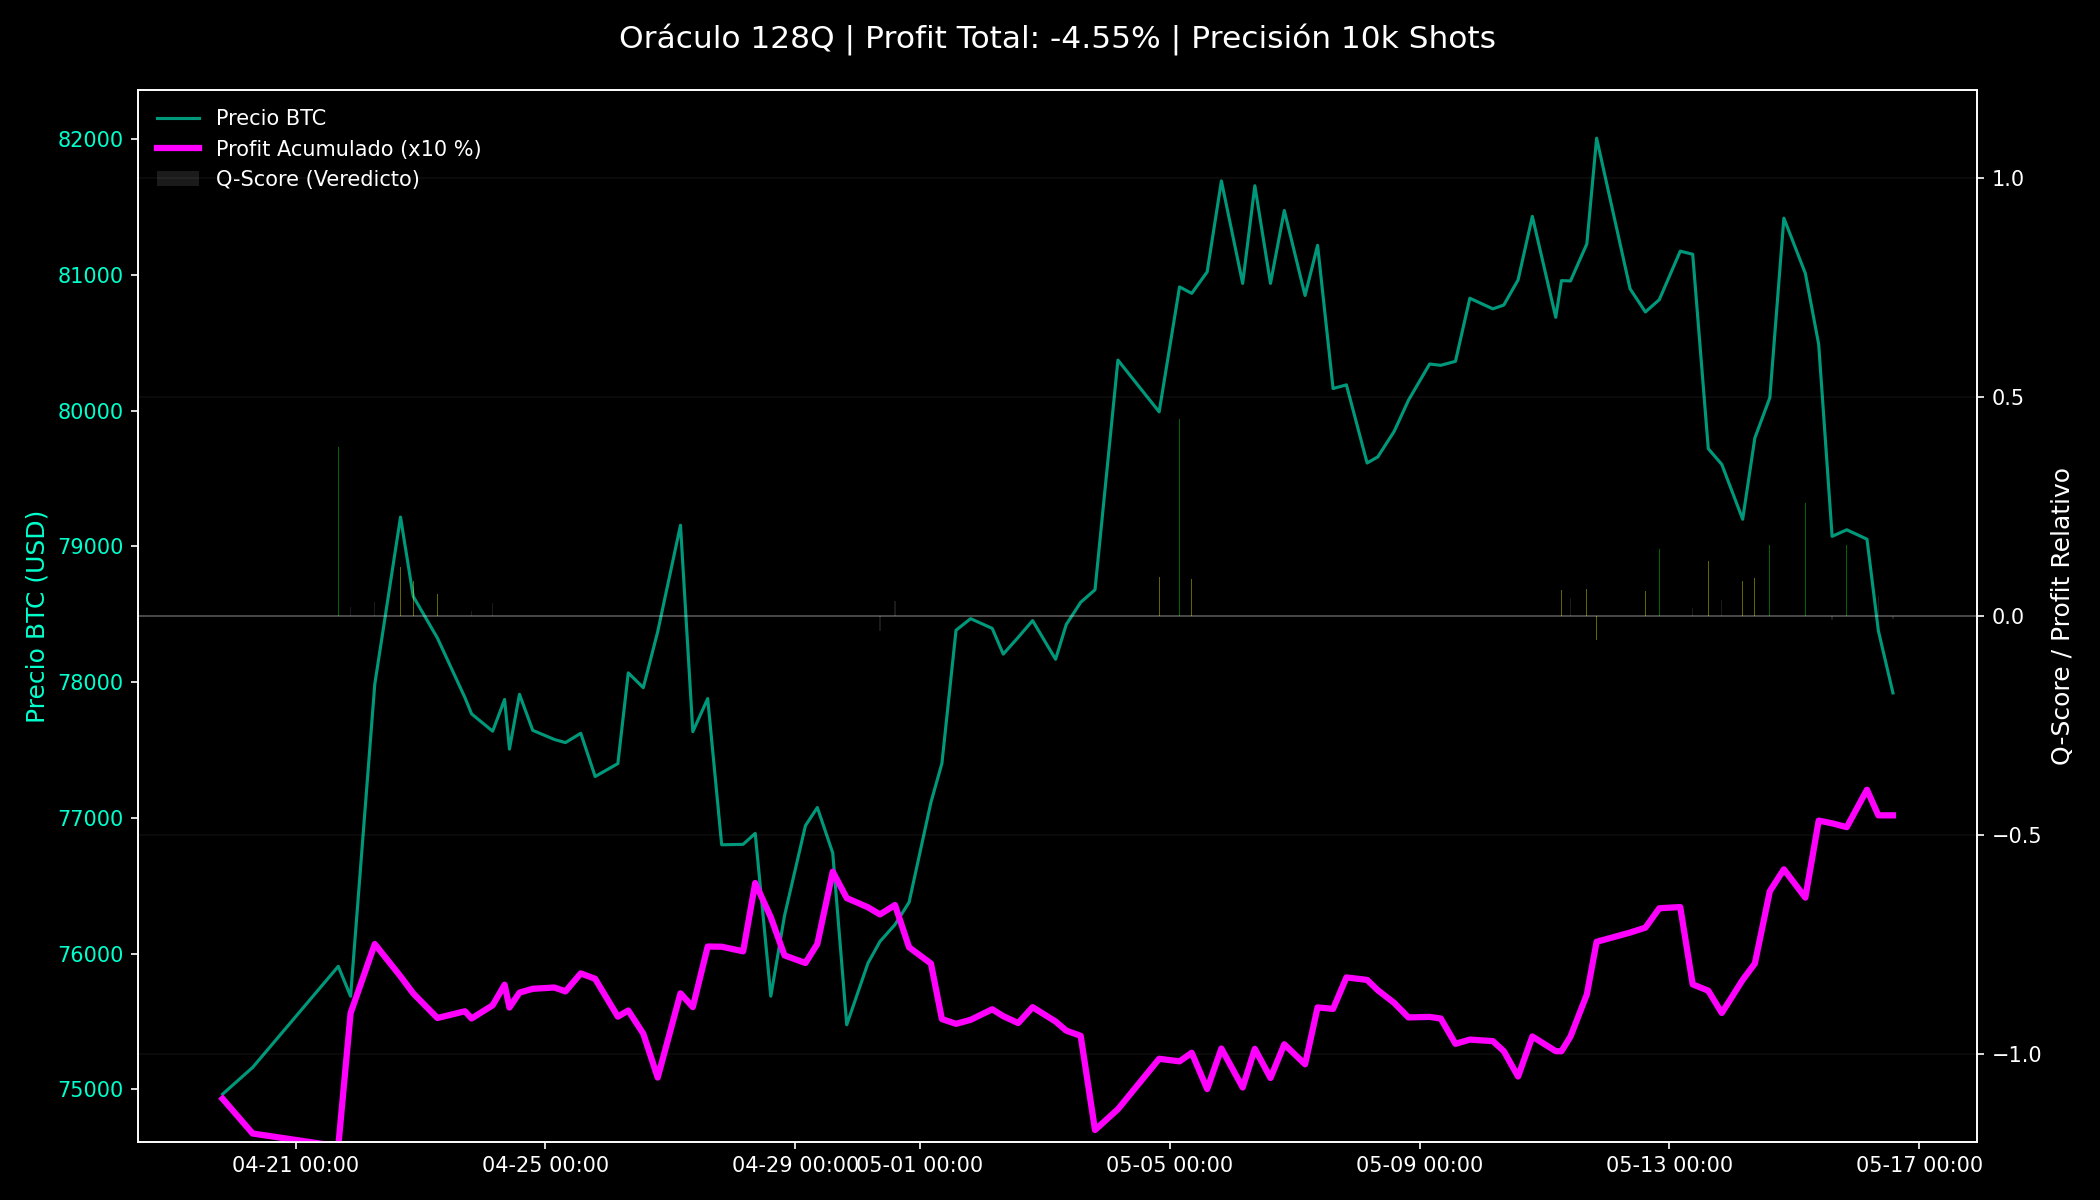
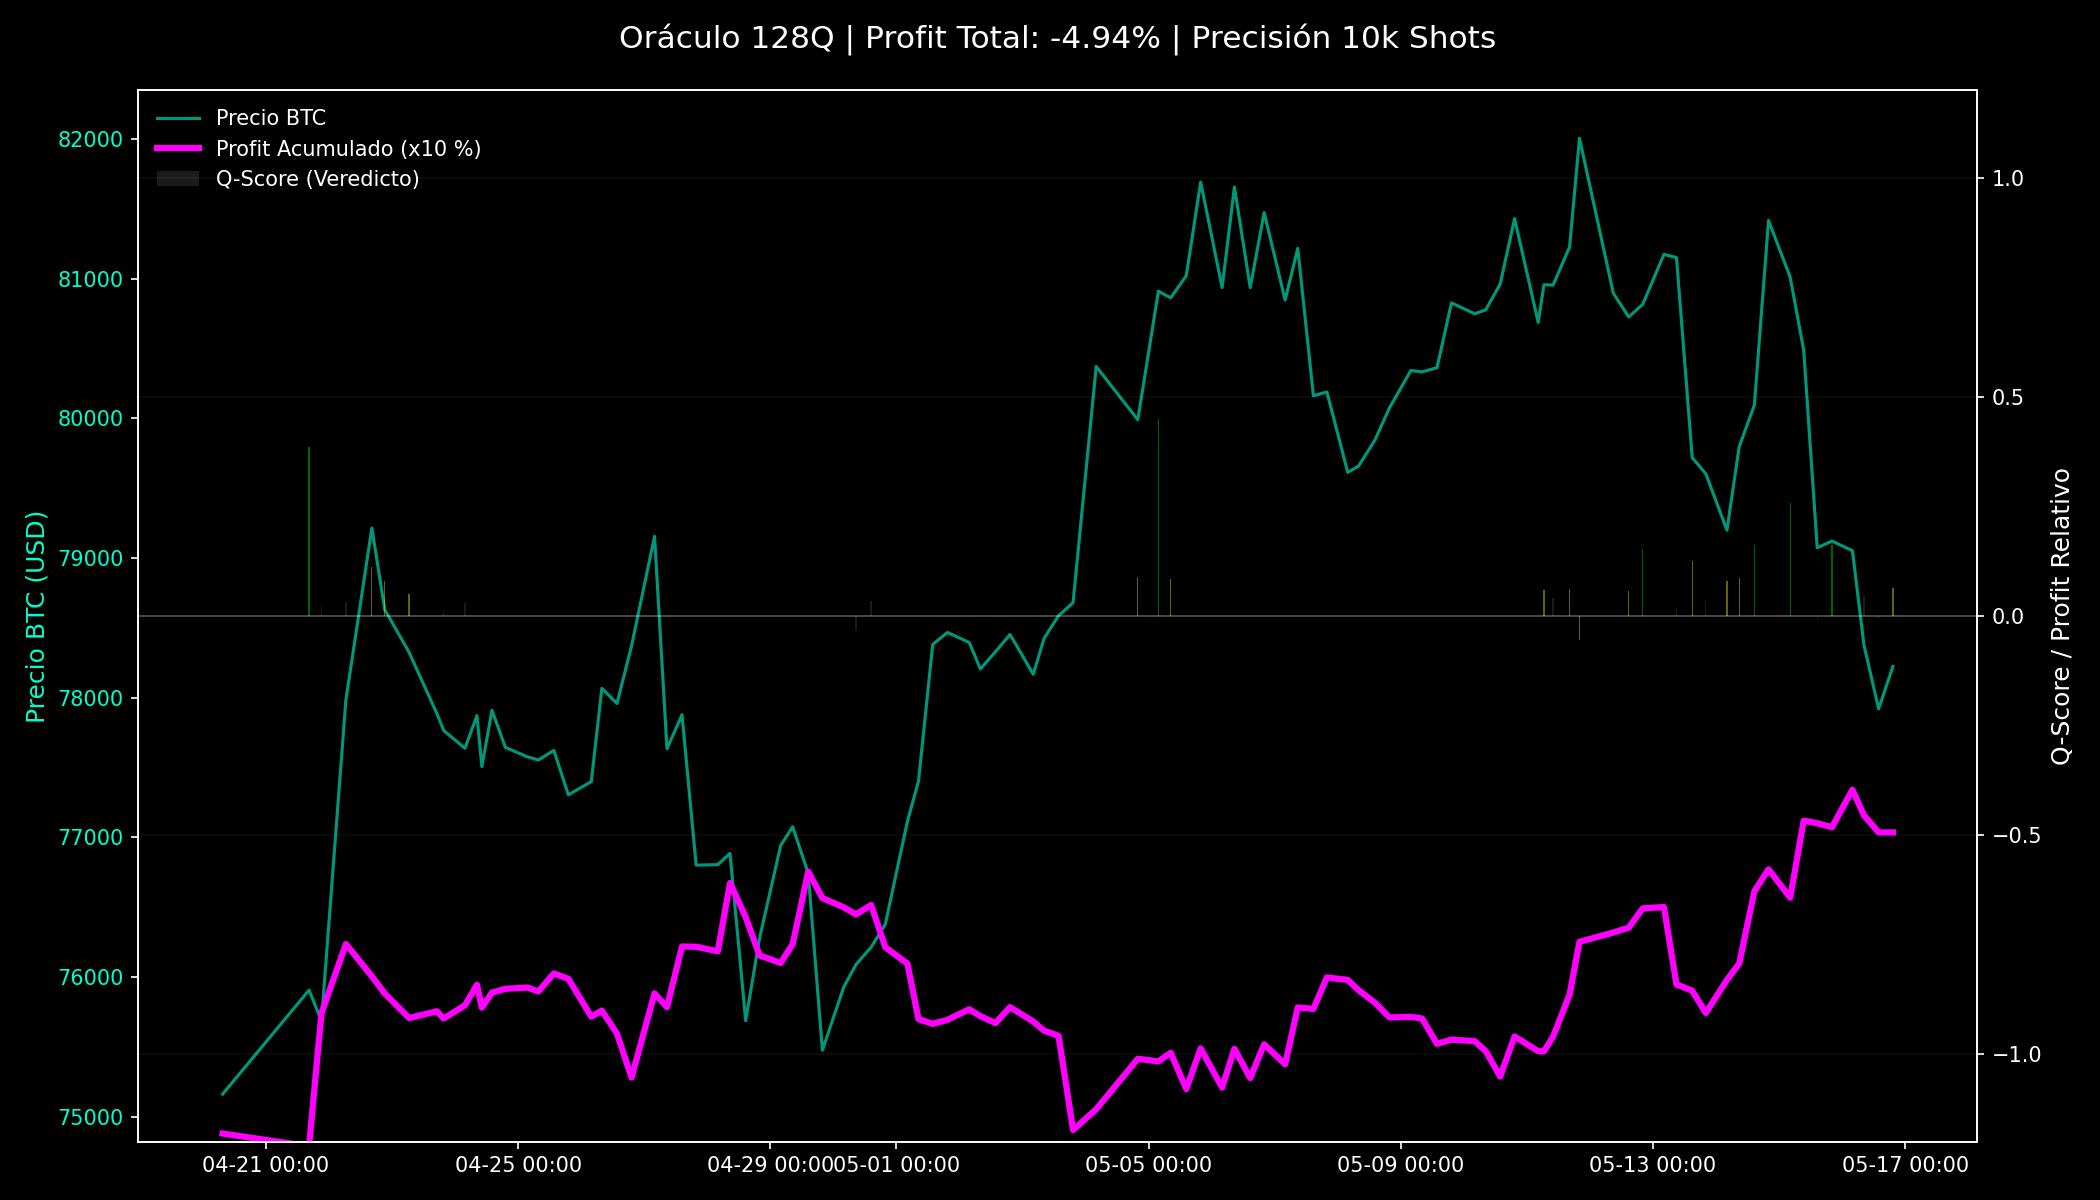
Deploying to gh-pages from @ alconero-hub/oraculo_cuantico@3d29151a1fda6c10945c05834842b582ba08a929 🚀

diff --git a/README.md b/README.md
@@ -1,9 +1,9 @@
 # 🌌 Oráculo Cuántico 128Q
 ![Señal](https://img.shields.io/badge/ORÁCULO-🟡%20ESPERA-yellow?style=for-the-badge)
-* **Precio BTC:** `$77,920.63` | **Q-Score:** `-0.0073`
-* **Hardware:** `ibm_marrakesh` | **Shots:** `5000`
-* **Volatilidad:** `0.1078%` | **Adaptativo:** `True`
-* **Sync:** `2026-05-16 13:54:26 UTC`
+* **Precio BTC:** `$78,224.65` | **Q-Score:** `+0.0651`
+* **Hardware:** `ibm_fez` | **Shots:** `5000`
+* **Volatilidad:** `0.1006%` | **Adaptativo:** `True`
+* **Sync:** `2026-05-16 19:20:49 UTC`
 
 ---
 ![Gráfica](./rendimiento_cuantico.png)